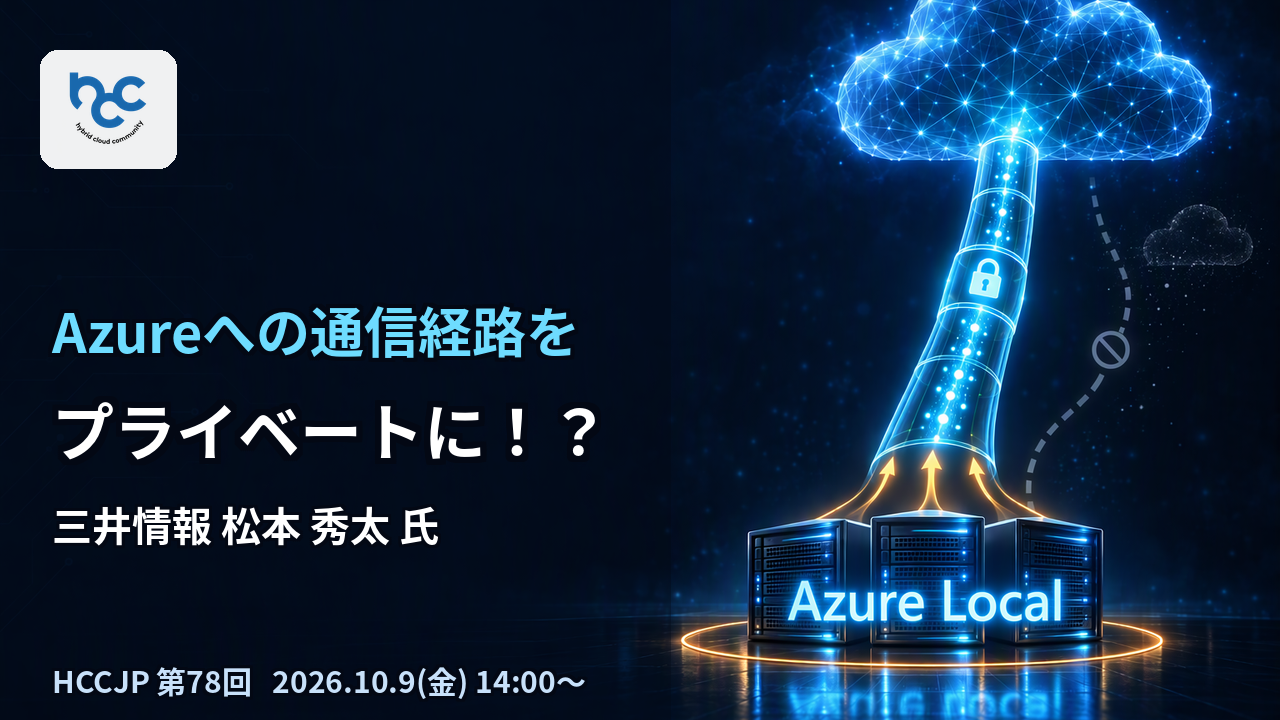
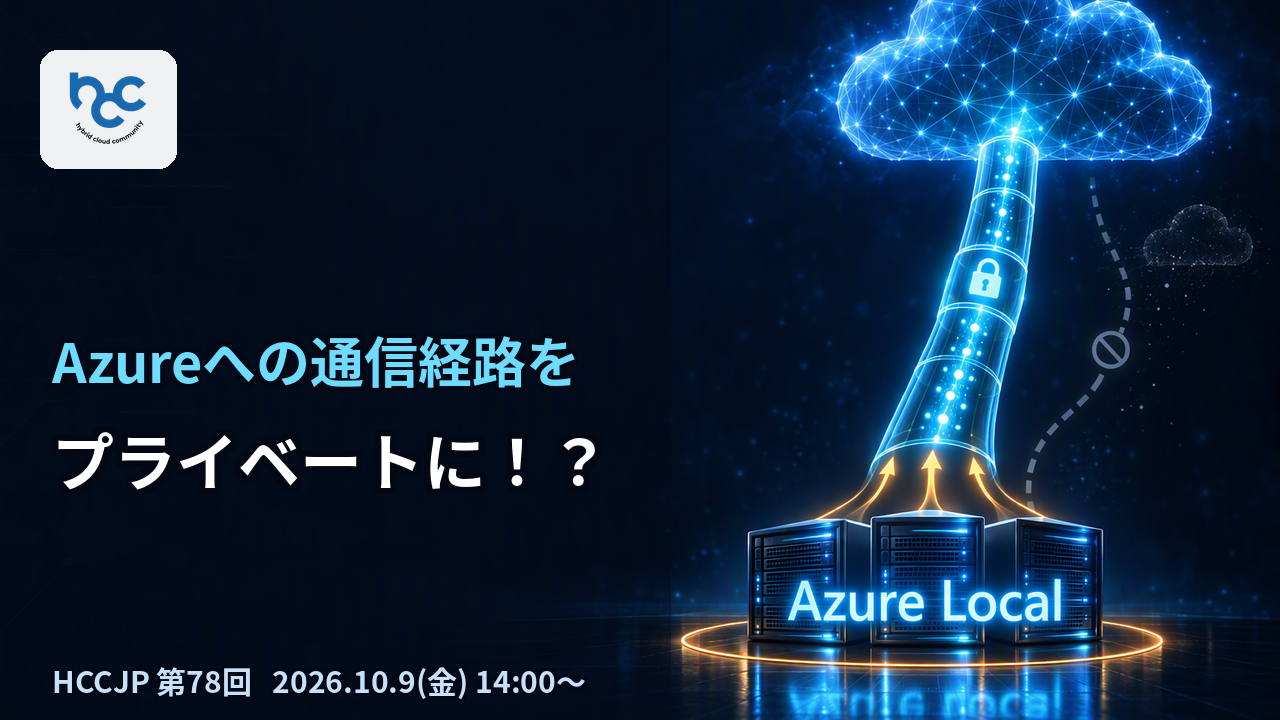
fix(hccjp-78): remove the speaker line from the thumbnail (#45)

Changed region(s): [[0.0312, 0.4278, 0.4688, 0.6722], [0.0312, 0.7028, 0.3438, 0.7639], [0.4375, 0.55, 0.4688, 0.6722]]

diff --git a/HCCJP_78/make_thumbnail.py b/HCCJP_78/make_thumbnail.py
@@ -36,7 +36,6 @@ OUT_PATH = HERE / "thumbnail.png"
 LINE1 = "Azureへの通信経路を"
 LINE2 = "プライベートに！？"
 DATE_TEXT = "HCCJP 第78回   2026.10.9(金) 14:00〜"
-SPEAKER_TEXT = "三井情報 松本 秀太 氏"
 
 MARGIN_X = 52          # 左マージン
 TEXT_ZONE_RIGHT = 610  # ここより右は図。文字を絶対にはみ出させない
@@ -94,15 +93,11 @@ def build() -> Image.Image:
     f2 = _fit(LINE2, 86, zone)
 
     # "Azure Local" は背景の絵の中に描き込み済み（後から重ねると浮くため）
-    y1 = 290
+    y1 = 320
     _outlined(draw, (MARGIN_X, y1), LINE1, f1, CYAN, width=4)
 
     y2 = y1 + draw.textbbox((0, 0), LINE1, font=f1)[3] + 26
     _outlined(draw, (MARGIN_X, y2), LINE2, f2, WHITE, width=6)
-
-    # 登壇者は見出しの下
-    y3 = y2 + draw.textbbox((0, 0), LINE2, font=f2)[3] + 34
-    _outlined(draw, (MARGIN_X, y3), SPEAKER_TEXT, _fit(SPEAKER_TEXT, 40, zone), WHITE, width=3)
 
     # 開催日は最下部。テキストゾーンの中に収める
     fd = _fit(DATE_TEXT, 30, zone)
